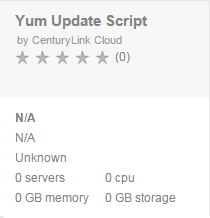
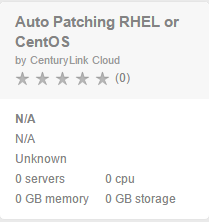
Changed Yum blueprint/script package name.

diff --git a/Servers/patching-as-a-service.md b/Servers/patching-as-a-service.md
@@ -72,7 +72,7 @@ For any method you choose, the following table will assist you with data needed 
 **Operating Systems** | **Blueprint Name** | **Script Package Name** | **Package ID**
  --- | --- | --- | ---
  Windows 2012 and 2012R2 | Windows Update Scripts | Windows Update Scripts | 94bd395f-9b54-4693-94ae-4f3aa93fc239
- Red Hat Enterprise Linux 5, 6, and 7 OR CentOS 5 and 6 | Yum Update Script | Yum Update | 5d743f04-a9ce-4174-a7c8-52df93c47c08
+ Red Hat Enterprise Linux 5, 6, and 7 OR CentOS 5 and 6 | Auto Patching RHEL or CentOS | Auto Patching RHEL/CentOS | 5d743f04-a9ce-4174-a7c8-52df93c47c08
 
 
 ### Option 1: Blueprint
@@ -91,7 +91,7 @@ Locate and select the appropriate Blueprint within the Blueprint Library. See th
 
 ![Windows Update Scripts Blueprint Image](../images/Patching/PatchaaS_WindowsUpdateHoverProd.png)
 
-![YUM Update Script Blueprint Image](../images/Patching/PatchaaS_YumUpdateBP.png)
+![Auto Patching RHEL or CentOS Blueprint Image](../images/Patching/PatchaaS_YumUpdateBP.png)
 
 
 
